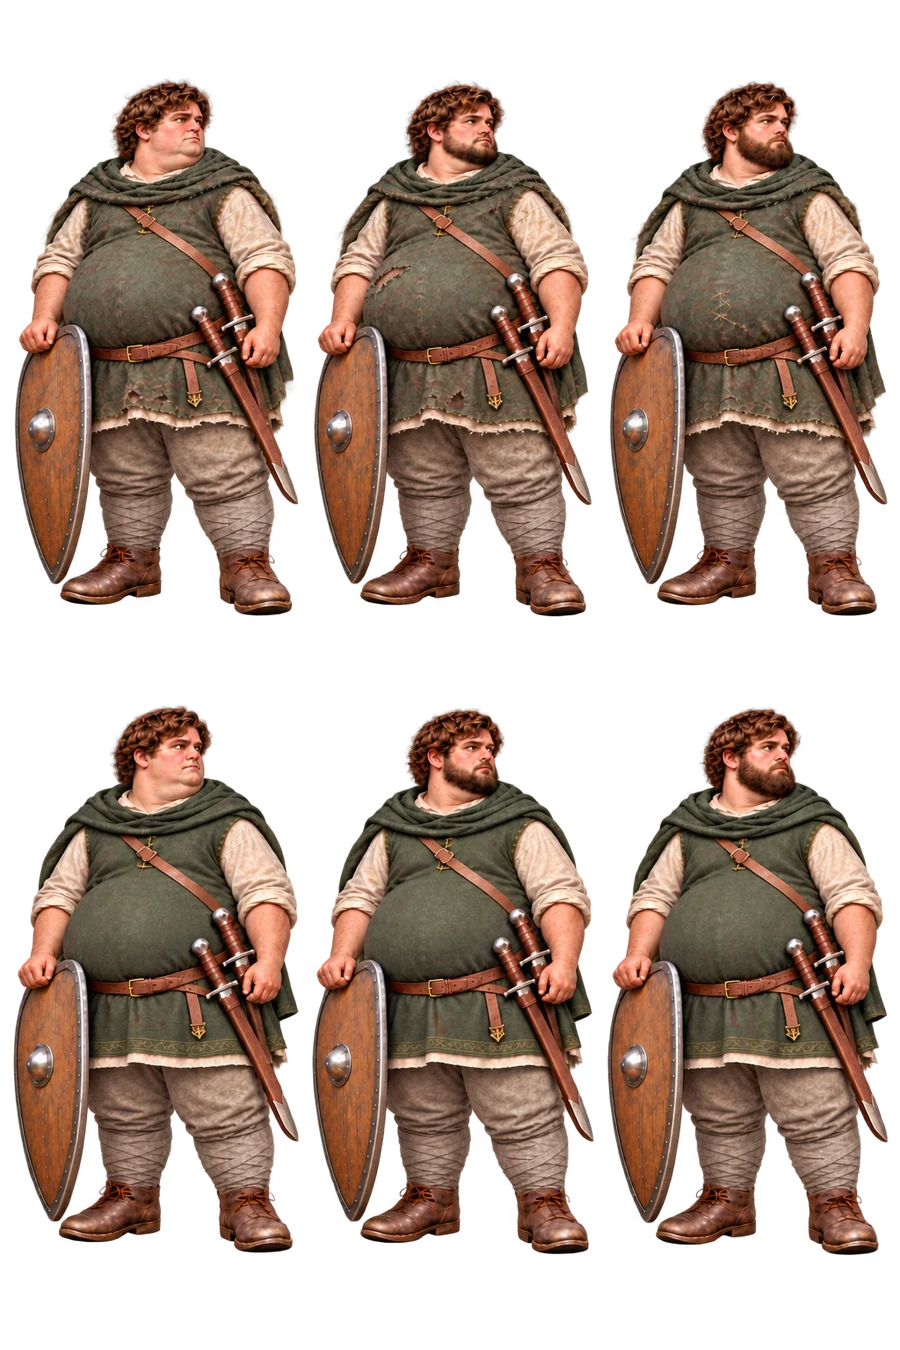
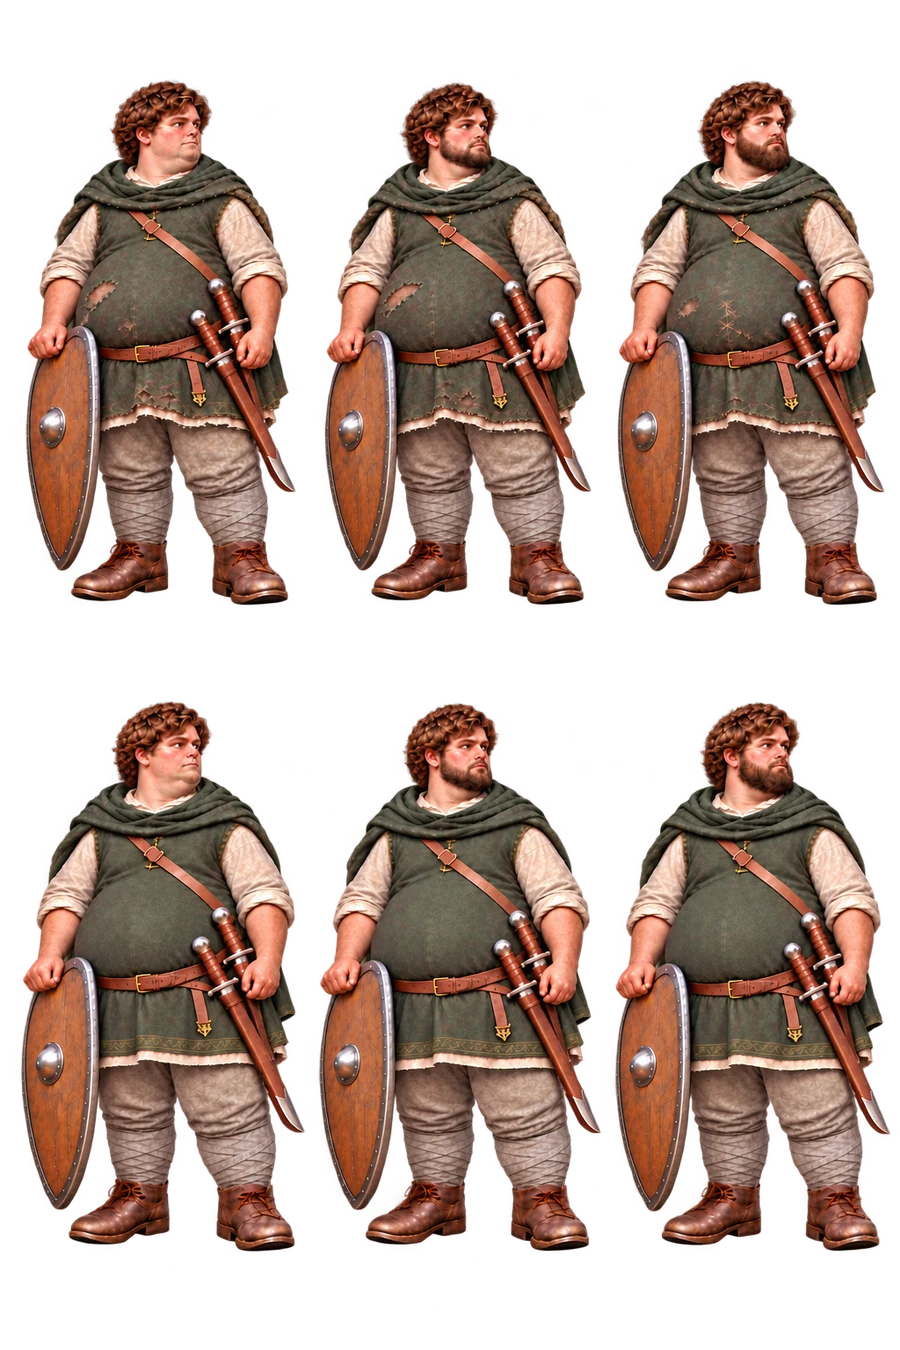
Refine Squire build and torso centering and explain weight appearance

diff --git a/src/characterBounds.ts b/src/characterBounds.ts
@@ -1,27 +1,27 @@
 // Generated sprite viewport metadata. Source artwork is unchanged.
 export const characterBounds: Record<string, number[][]> = {
   "knight-0": [
-    [31, 110, 265, 513, 156.0],
-    [341, 111, 247, 514, 454.0],
-    [647, 113, 223, 512, 754.0],
-    [21, 745, 276, 523, 157.0],
-    [337, 746, 253, 524, 454.0],
+    [31, 110, 265, 513, 159.0],
+    [341, 111, 247, 514, 457.0],
+    [647, 113, 223, 512, 757.0],
+    [21, 745, 276, 523, 158.0],
+    [337, 746, 253, 524, 456.0],
     [642, 749, 228, 522, 756.0],
   ],
   "knight-1": [
-    [32, 90, 254, 514, 156.0],
+    [32, 90, 254, 514, 154.0],
     [340, 90, 244, 514, 453.0],
-    [638, 90, 241, 514, 753.0],
-    [26, 730, 261, 525, 157.0],
-    [336, 730, 250, 526, 453.0],
+    [638, 90, 241, 514, 751.0],
+    [26, 730, 261, 525, 154.0],
+    [336, 730, 250, 526, 452.0],
     [639, 730, 242, 526, 754.0],
   ],
   "knight-2": [
-    [23, 113, 270, 506, 164.0],
+    [23, 113, 270, 506, 162.0],
     [343, 114, 249, 506, 462.0],
-    [638, 113, 231, 506, 754.0],
-    [24, 731, 273, 504, 164.0],
-    [340, 731, 259, 504, 463.0],
+    [638, 113, 231, 506, 753.0],
+    [24, 731, 273, 504, 161.0],
+    [340, 731, 259, 504, 460.0],
     [636, 731, 241, 504, 757.0],
   ],
   "knight-banneret-0": [
@@ -49,83 +49,83 @@ export const characterBounds: Record<string, number[][]> = {
     [646, 727, 237, 484, 780.0],
   ],
   "knight-errant-0": [
-    [42, 108, 258, 520, 165.0],
-    [345, 107, 249, 521, 462.0],
-    [633, 109, 247, 519, 746.0],
-    [36, 726, 269, 525, 164.0],
-    [343, 726, 254, 525, 460.0],
-    [633, 728, 252, 523, 752.0],
+    [42, 108, 258, 520, 163.0],
+    [345, 107, 249, 521, 461.0],
+    [633, 109, 247, 519, 747.0],
+    [36, 726, 269, 525, 161.0],
+    [343, 726, 254, 525, 459.0],
+    [633, 728, 252, 523, 749.0],
   ],
   "knight-errant-1": [
-    [20, 68, 305, 562, 172.0],
-    [329, 76, 286, 556, 467.0],
-    [642, 79, 248, 553, 776.0],
-    [20, 709, 301, 565, 174.0],
-    [332, 717, 281, 559, 470.0],
-    [639, 722, 253, 553, 775.0],
+    [20, 68, 305, 562, 165.0],
+    [329, 76, 286, 556, 464.0],
+    [642, 79, 248, 553, 768.0],
+    [20, 709, 301, 565, 164.0],
+    [332, 717, 281, 559, 467.0],
+    [639, 722, 253, 553, 768.0],
   ],
   "knight-errant-2": [
-    [29, 107, 260, 507, 163.0],
-    [344, 112, 242, 503, 456.0],
-    [646, 112, 223, 504, 755.0],
-    [28, 736, 268, 522, 167.0],
-    [338, 745, 255, 513, 458.0],
-    [647, 746, 230, 512, 762.0],
+    [29, 107, 260, 507, 156.0],
+    [344, 112, 242, 503, 455.0],
+    [646, 112, 223, 504, 751.0],
+    [28, 736, 268, 522, 159.0],
+    [338, 745, 255, 513, 456.0],
+    [647, 746, 230, 512, 755.0],
   ],
   "man-at-arms-0": [
-    [19, 95, 291, 555, 163.0],
-    [333, 101, 268, 549, 460.0],
-    [635, 100, 252, 552, 760.0],
-    [18, 730, 295, 555, 164.0],
-    [332, 738, 269, 546, 458.0],
-    [636, 737, 254, 551, 761.0],
+    [19, 95, 291, 555, 167.0],
+    [333, 101, 268, 549, 468.0],
+    [635, 100, 252, 552, 767.0],
+    [18, 730, 295, 555, 167.0],
+    [332, 738, 269, 546, 465.0],
+    [636, 737, 254, 551, 768.0],
   ],
   "man-at-arms-1": [
-    [25, 90, 275, 523, 170.0],
-    [331, 89, 257, 525, 457.0],
-    [624, 92, 247, 522, 749.0],
-    [25, 733, 274, 527, 169.0],
-    [329, 733, 259, 528, 458.0],
-    [622, 735, 252, 526, 749.0],
+    [25, 90, 275, 523, 169.0],
+    [331, 89, 257, 525, 462.0],
+    [624, 92, 247, 522, 755.0],
+    [25, 733, 274, 527, 168.0],
+    [329, 733, 259, 528, 464.0],
+    [622, 735, 252, 526, 756.0],
   ],
   "man-at-arms-2": [
-    [41, 87, 265, 518, 177.0],
-    [341, 90, 249, 516, 455.0],
-    [634, 94, 237, 512, 749.0],
-    [25, 711, 281, 545, 164.0],
-    [333, 717, 261, 540, 454.0],
-    [628, 720, 251, 537, 747.0],
+    [41, 87, 265, 518, 180.0],
+    [341, 90, 249, 516, 464.0],
+    [634, 94, 237, 512, 753.0],
+    [25, 711, 281, 545, 171.0],
+    [333, 717, 261, 540, 464.0],
+    [628, 720, 251, 537, 754.0],
   ],
   "squire-0": [
-    [7, 64, 307, 580, 170.0],
+    [7, 64, 307, 580, 168.0],
     [325, 68, 283, 576, 463.0],
-    [628, 69, 270, 575, 765.0],
-    [7, 706, 308, 580, 168.0],
+    [628, 69, 270, 575, 762.0],
+    [7, 706, 308, 580, 166.0],
     [323, 708, 289, 579, 465.0],
-    [626, 707, 274, 579, 766.0],
+    [626, 707, 274, 579, 763.0],
   ],
   "squire-1": [
-    [6, 59, 305, 580, 161.0],
-    [321, 68, 286, 571, 460.0],
-    [633, 70, 267, 570, 765.0],
-    [5, 684, 310, 575, 161.0],
-    [320, 687, 288, 572, 460.0],
-    [631, 689, 269, 570, 765.0],
+    [6, 59, 305, 580, 159.0],
+    [321, 68, 286, 571, 457.0],
+    [633, 70, 267, 570, 761.0],
+    [5, 684, 310, 575, 160.0],
+    [320, 687, 288, 572, 457.0],
+    [631, 689, 269, 570, 761.0],
   ],
   "squire-2": [
-    [4, 74, 304, 571, 160.0],
+    [4, 74, 304, 571, 158.0],
     [322, 74, 282, 571, 460.0],
     [626, 76, 272, 569, 759.0],
-    [4, 697, 308, 578, 156.0],
+    [4, 697, 308, 578, 158.0],
     [321, 700, 290, 575, 463.0],
     [626, 698, 274, 575, 761.0],
   ],
   "squire-large": [
-    [13, 78, 287, 540, 166.0],
-    [312, 80, 282, 539, 458.0],
-    [608, 79, 281, 539, 753.0],
-    [12, 704, 289, 551, 165.0],
-    [310, 707, 286, 549, 458.0],
-    [606, 707, 284, 550, 753.0],
+    [24, 79, 274, 528, 165.0],
+    [323, 81, 270, 526, 459.0],
+    [616, 79, 270, 528, 752.0],
+    [19, 700, 288, 554, 166.0],
+    [317, 702, 286, 551, 460.0],
+    [613, 700, 279, 553, 754.0],
   ],
 };

diff --git a/src/body-appearance.test.ts b/src/body-appearance.test.ts
@@ -1,6 +1,6 @@
 import { detectFeedback } from './feedback/events';
 import { describe, it, expect } from 'vitest';
-import { bodyAppearance, knightAppearance } from './appearance';
+import { bodyAppearance, bodyAppearanceExplanation, knightAppearance } from './appearance';
 import { createKnight, totals, completeQuest, confirmOath, oathStats } from './domain';
 import { addWeighIn, setWeightSettings, deleteWeighIn, editWeighIn, validWeightSettings } from './weight';
 import { defaultGoals, configureCampaign } from './campaign';
@@ -17,6 +17,14 @@ function measure(s: ReturnType<typeof start>, date: string, grams: number) {
   return addWeighIn(s,date,grams,{id:date,now});
 }
 describe('optional outcome appearance', () => {
+  it('explains a single target-weight observation without inventing trend progress', () => {
+    const s=measure(start(),'2026-10-09',80000);
+    expect(bodyAppearance(s.weight,'2026-10-09').build).toBe('large');
+    expect(bodyAppearanceExplanation(s.weight,'2026-10-09')).toContain('one weigh-in does not change it');
+    expect(bodyAppearanceExplanation({...s.weight,settings:{...s.weight.settings,baseline:null}},'2026-10-09')).toContain('Set a starting weight and target');
+    expect(bodyAppearanceExplanation({...s.weight,settings:{...s.weight.settings,targetGrams:100000}},'2026-10-09')).toContain('equal');
+    expect(bodyAppearanceExplanation(createKnight('Ada','2026-10-01').weight,'2026-10-09')).toBeNull();
+  });
   it('keeps legacy saves unlinked; valid explicit choices round-trip without version churn', () => {
     const legacy=createKnight('Ada','2026-10-01');
     expect(bodyAppearance(legacy.weight,'2026-10-09').linked).toBe(false);

diff --git a/src/appearance.ts b/src/appearance.ts
@@ -61,6 +61,18 @@ export function bodyAppearance(weight?: State['weight'], today = dayKey()): {
   return {build: bodyBuilds[index], progress, linked: true, hasTrend: true};
 }
 
+export function bodyAppearanceExplanation(weight: State['weight'], today = dayKey()): string | null {
+  if (!weight.settings.appearance?.enabled) return null;
+  const {baseline, targetGrams} = weight.settings;
+  if (!baseline || targetGrams === null)
+    return 'Starting build shown. Set a starting weight and target in Chronicle to link future build changes.';
+  if (baseline.grams === targetGrams)
+    return 'Starting weight and target are equal, so the selected starting build stays in place.';
+  if (!bodyAppearance(weight, today).hasTrend)
+    return 'Starting build shown. Appearance waits for a seven-day trend with at least three dated measurements on or after your starting date; one weigh-in does not change it.';
+  return 'Build follows your recorded weight trend, changing at visual stages rather than with each weigh-in. Your desired build appears when the trend reaches the target; reached stages remain through fluctuations.';
+}
+
 // Display-only honour: a player's saved personal name is never rewritten.
 export function knightlyName(name: string, renown: number) {
   const stage = ranks.indexOf(rankProgress(renown).rank);

diff --git a/src/App.tsx b/src/App.tsx
@@ -57,7 +57,7 @@ import {
 } from "./campaign";
 import type { CampaignGoal } from "./model";
 import KnightArt from "./KnightArt";
-import { knightAppearance, knightlyName } from "./appearance";
+import { bodyAppearanceExplanation, knightAppearance, knightlyName } from "./appearance";
 import { formatDay } from "./presentation";
 import JourneyMap from "./JourneyMap";
 import {
@@ -990,6 +990,7 @@ function OathboundApp() {
                     {knightAppearance(total.renown, total.xp, state.weight, today).description}
                   </p>
                   <p className="muted">{knightAppearance(total.renown, total.xp, state.weight, today).message}</p>
+                  {bodyAppearanceExplanation(state.weight, today) && <p className="muted appearance-status">{bodyAppearanceExplanation(state.weight, today)}</p>}
                 </div>
               </div>
               <section className="panel campaign-summary">

diff --git a/src/KnightArt.tsx b/src/KnightArt.tsx
@@ -12,7 +12,7 @@ export default function KnightArt({ renown = 0, xp = {}, weight, today }: {
   function artwork(complexion=false) {
     const column = sheet.largeOnly ? look.beard : bodyBuilds.indexOf(look.body);
     const [sourceX, sourceY, sourceWidth, sourceHeight, centerX] = sheet.bounds[Number(look.groomed)*3+column];
-    // Keep the person's head/body central while fitting all asymmetric equipment.
+    // Keep the person's torso central while fitting all asymmetric equipment.
     const reach=Math.max(centerX-sourceX,sourceX+sourceWidth-centerX);
     const scale=Math.min(320/reach,960/sourceHeight);
     const width=sourceWidth*scale, height=sourceHeight*scale;

diff --git a/scripts/character-sheet-bounds.py b/scripts/character-sheet-bounds.py
@@ -35,21 +35,21 @@ for path in sorted((root / 'src/assets/knight/sheets').glob('*.webp')):
                     raise ValueError(f'Overlapping sprite viewports: {path.name}; artwork needs more spacing')
         regions = []
         for left, top, right, bottom in boxes:
-            # Anchor the person by their head rather than the combined shield/body
+            # Anchor the torso rather than the turned head or combined equipment
             # silhouette. Read pixels only; no source artwork is modified.
             # Banneret's standard rises above the helmet, so its head is below
             # the top edge and to the right of the pole. Other ranks have no flag.
             if path.stem.startswith('knight-banneret'):
-                head_left = left + round((right - left) * 0.40)
-                head = alpha[top + round((bottom - top) * 0.10):top + round((bottom - top) * 0.22),
-                             head_left:left + round((right - left) * 0.85)]
+                anchor_left = left + round((right - left) * 0.40)
+                anchor = alpha[top + round((bottom - top) * 0.10):top + round((bottom - top) * 0.22),
+                             anchor_left:left + round((right - left) * 0.85)]
             else:
-                head_left = left
-                head = alpha[top:top + max(1, round((bottom - top) * 0.10)), left:right]
-            _, head_x = np.nonzero(head > 128)
-            if not len(head_x):
-                raise ValueError(f'Missing head anchor: {path.name}')
-            center = round(head_left + float(np.median(head_x)), 2)
+                anchor_left = left
+                anchor = alpha[top + round((bottom - top) * 0.24):top + round((bottom - top) * 0.36), left:right]
+            _, anchor_x = np.nonzero(anchor > 128)
+            if not len(anchor_x):
+                raise ValueError(f'Missing portrait anchor: {path.name}')
+            center = round(anchor_left + float(np.median(anchor_x)), 2)
             regions.append([left, top, right - left, bottom - top, center])
         bounds[path.stem] = regions
 output = '// Generated sprite viewport metadata. Source artwork is unchanged.\n'

diff --git a/src/assets/knight/README.md b/src/assets/knight/README.md
@@ -10,6 +10,8 @@ An additional `squire-large.webp` overrides only the larger Squire build. Its co
 
 `characterSheets.ts` imports the sheets. Generated viewport metadata in `characterBounds.ts` fits each complete figure without changing artwork pixels. After replacing assets, regenerate it with `python scripts/character-sheet-bounds.py` (Pillow, NumPy and SciPy required for this optional development step). Vite fingerprints them and the existing service worker precaches all variants for offline use. The original standalone portraits remain here as archived references and are no longer bundled. Source PNG outputs remain in the execution workspace’s `generated_images` directory; WebP conversion only resizes and optimises them.
 
-Each viewport also stores a head-center anchor. The renderer centers the person rather than their asymmetric shield/standard, while fitting all equipment inside the portrait. The Banneret anchor accounts for the banner extending above the helmet.
+Each viewport also stores a person-center anchor. The renderer centers the torso rather than a turned head or asymmetric shield, while fitting all equipment inside the portrait. The Banneret anchor accounts for the banner extending above the helmet.
+
+On 10 October 2026 the larger Squire was toned down to a moderately rounded belly and softer chin, preserving all six beard/grooming combinations. Current original source: `exec-a3ac192f-beb8-43a8-a3bd-9195d9d759d0.png`, a spacing refinement of `exec-8e369761-d983-4511-b765-2b6e4ee8a036.png`. The appearance remains opt-in and uses the unchanged recorded-trend rules.
 
 These are complete illustrations rather than rigged models. Strength adds a bounded silhouette adjustment and Vitality a subtle face-only complexion treatment. Appearance rules never grant progression rewards. See `docs/body-appearance.md` for optional weight-plan semantics.

diff --git a/docs/body-appearance.md b/docs/body-appearance.md
@@ -22,4 +22,6 @@ Each of the existing five ranks has three Wisdom/beard sheets. Each sheet has th
 
 SVG viewport clipping uses generated alpha-bound metadata to frame one complete cell without altering the source artwork. Assets are original generated illustrations, optimised locally and included in the normal fingerprinted offline shell. No runtime image generation or image hosting is needed. All builds are dignified and capable.
 
-The larger Squire uses a dedicated six-figure atlas (three beard stages × two grooming states) with a visibly rounded belly and double chin. Its selection follows the same optional saved weight-plan rules; it never replaces a user's selected lean/sturdy build. Portrait framing centers the person's head/body while preserving their equipment, using generated anchor metadata for each illustration.
+The larger Squire uses a dedicated six-figure atlas (three beard stages × two grooming states) with a visibly rounded belly and softer chin. Its selection follows the same optional saved weight-plan rules; it never replaces a user's selected lean/sturdy build. Portrait framing centers the person's torso while preserving their equipment, using generated anchor metadata for each illustration.
+
+Knight explains when appearance is waiting for a starting weight/target or enough real observations. A single measurement at the target does not bypass the three-measurement trend requirement. Equal starting/target weights retain the selected starting build; the explanation does not alter saved measurements or progression.
